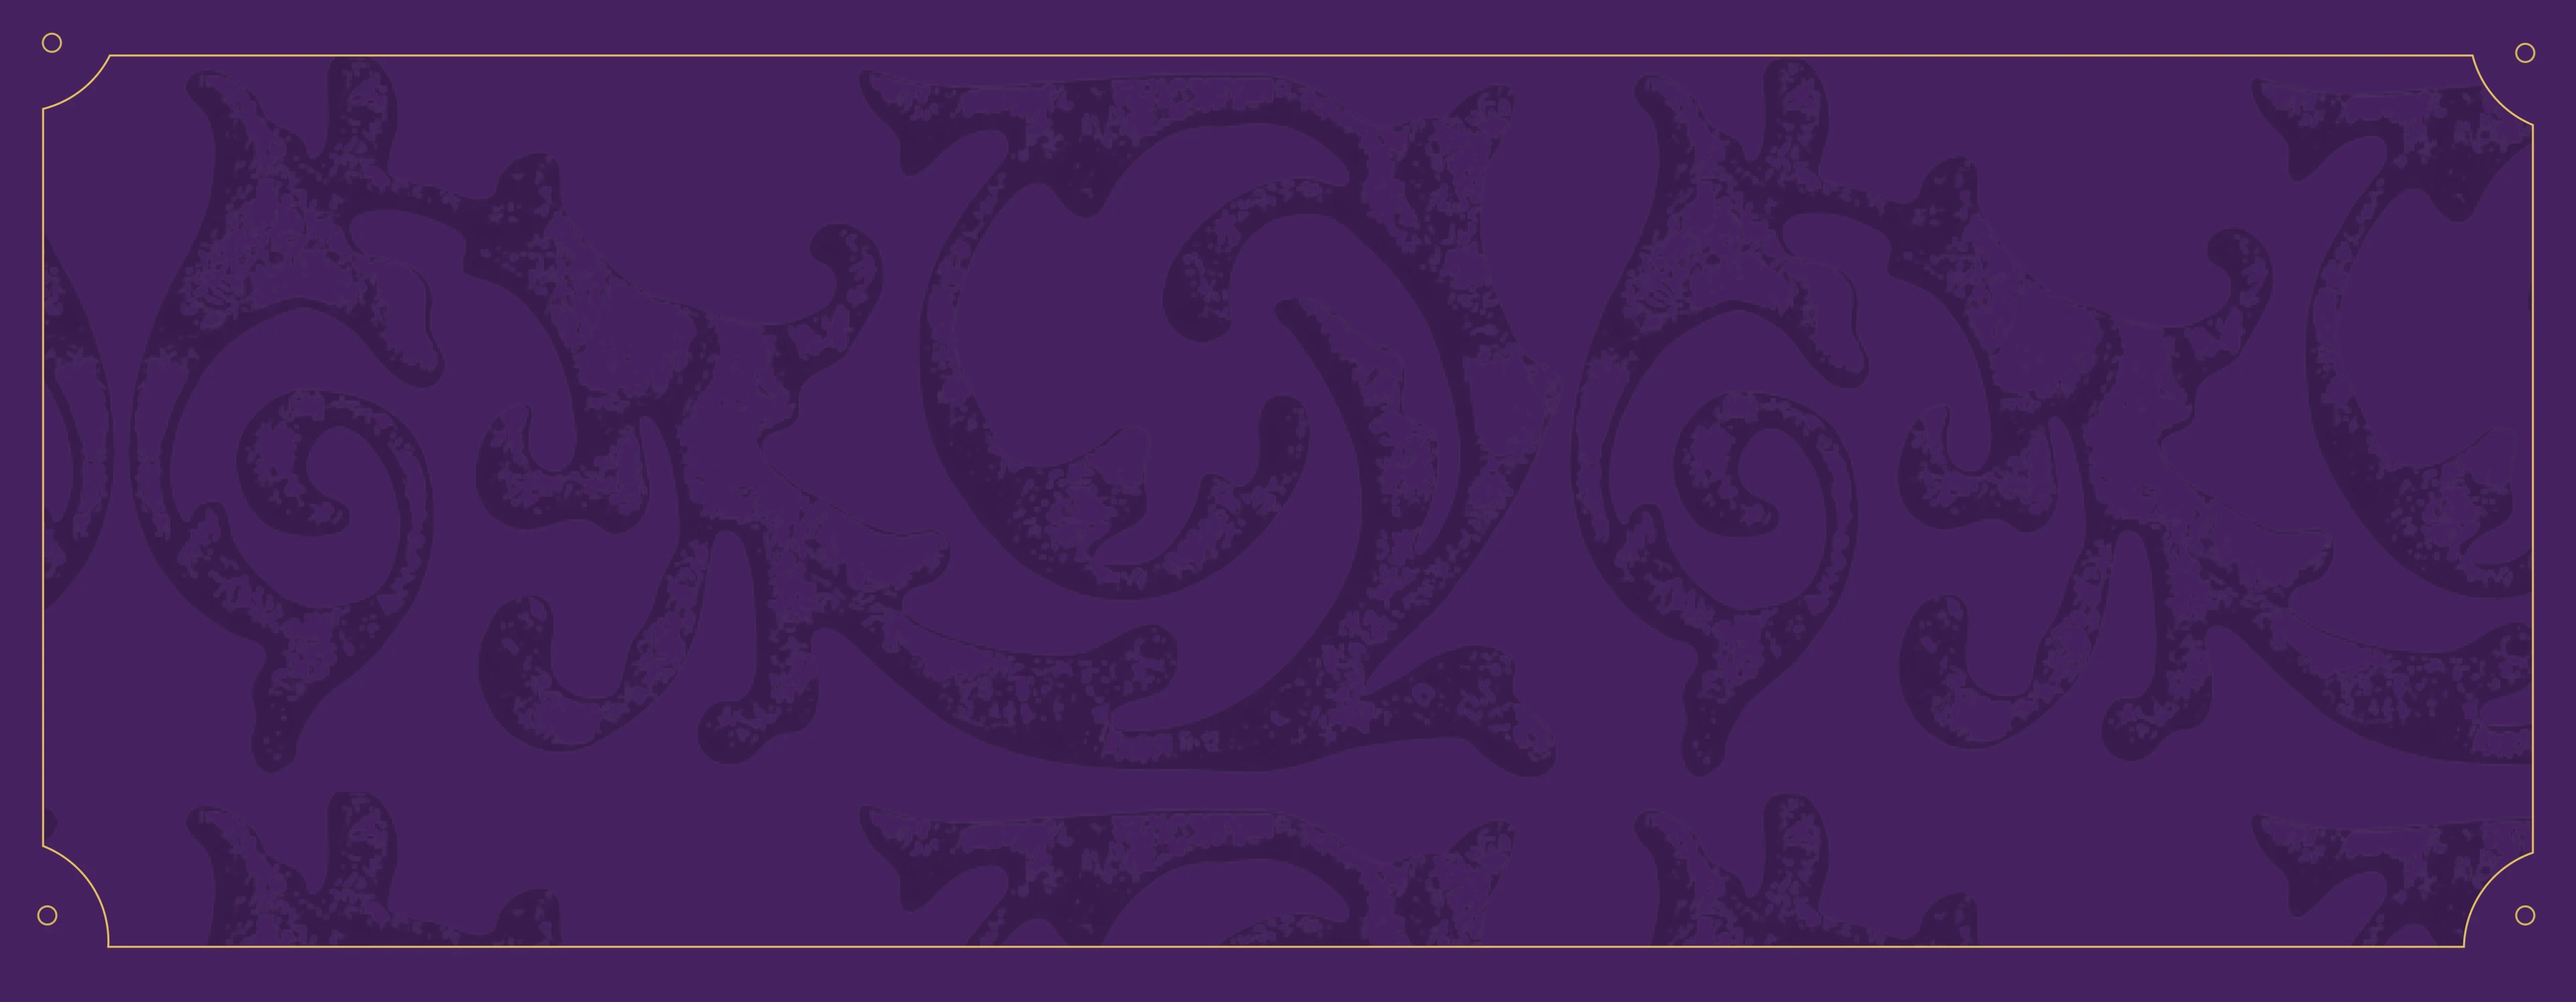
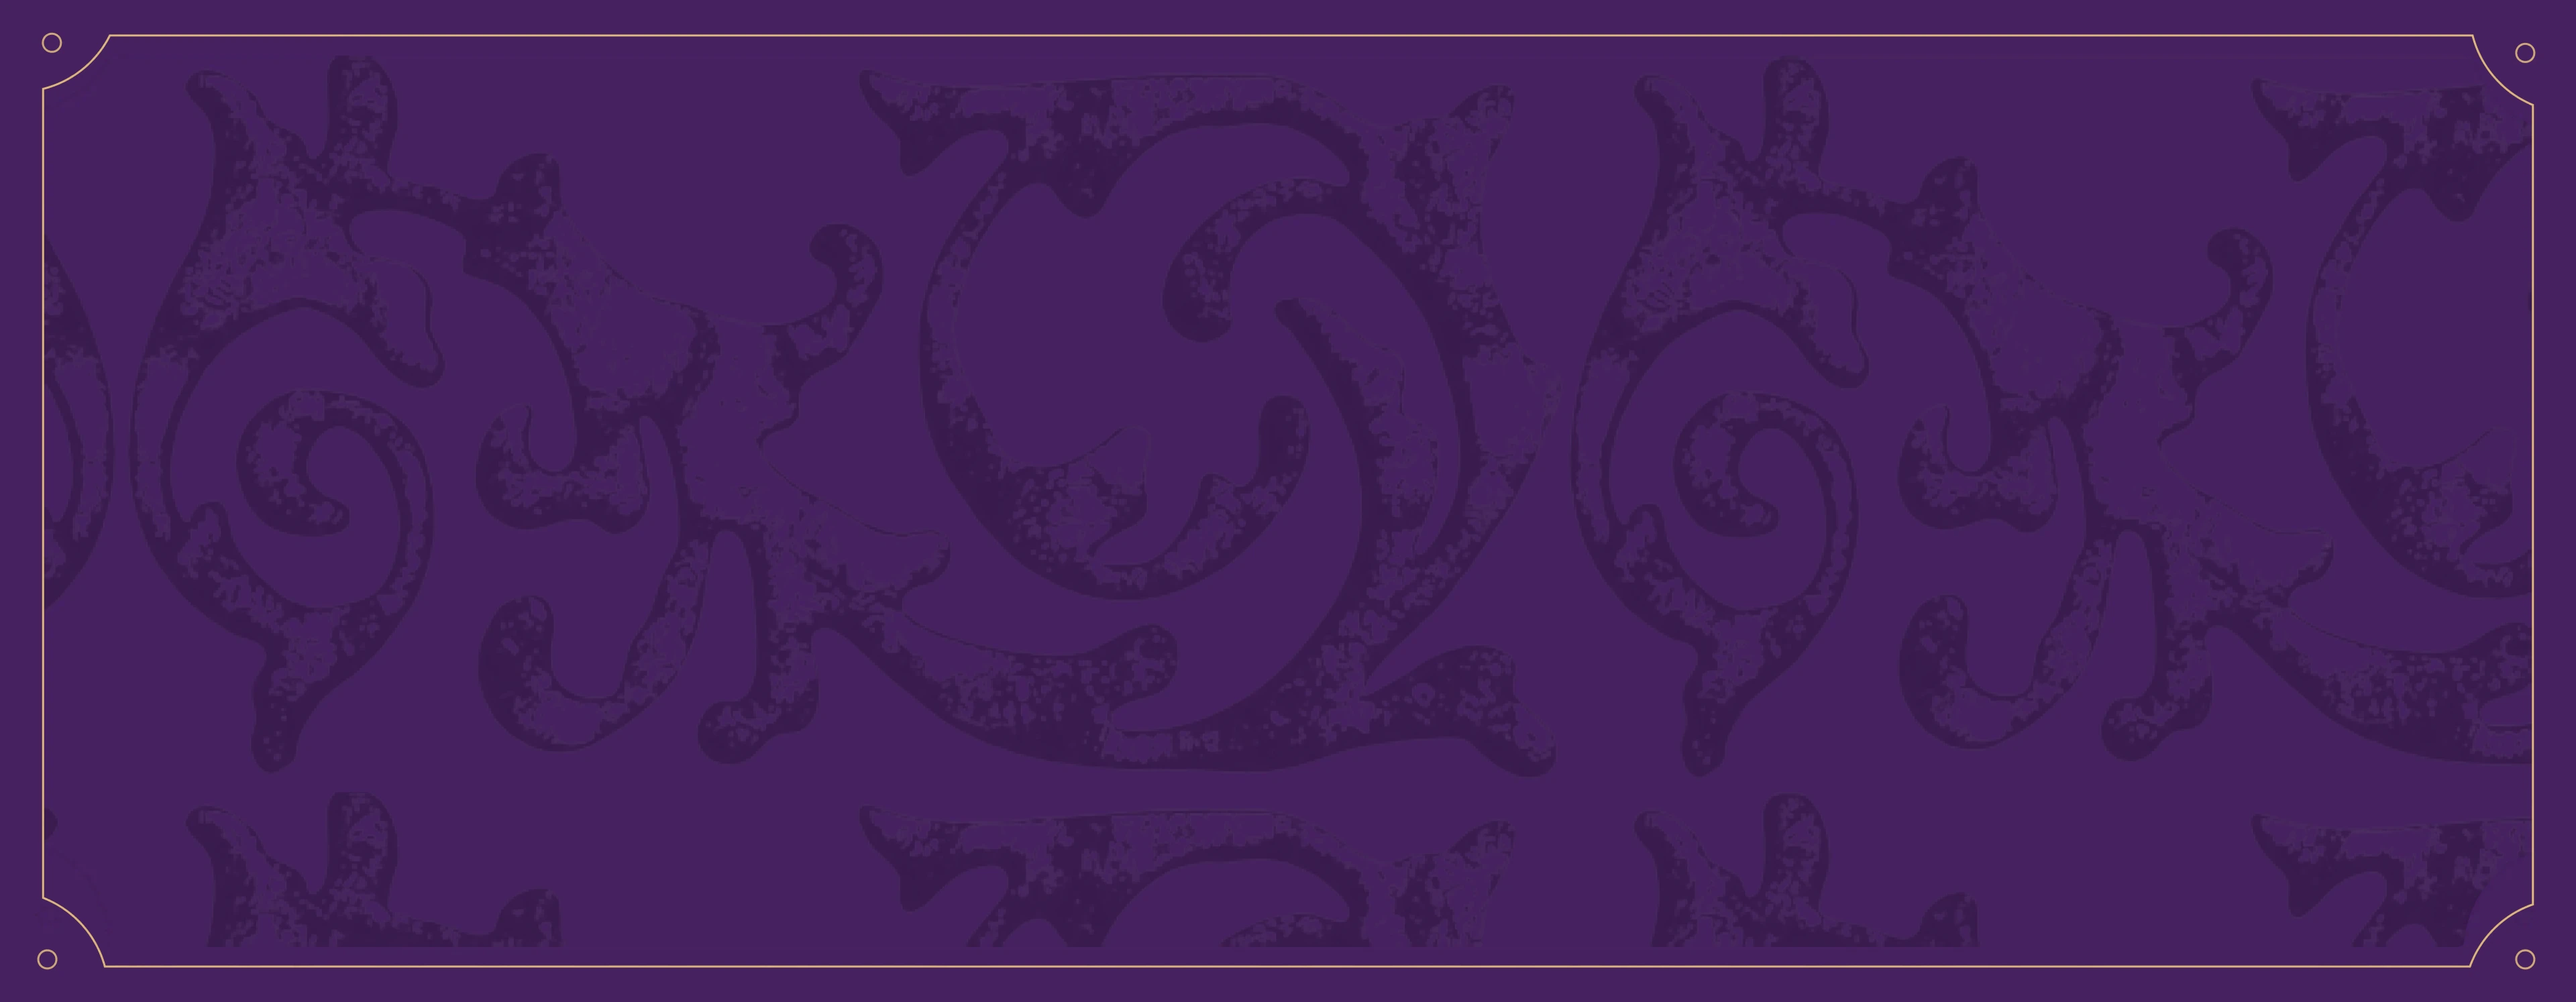
changes for desktop pages

diff --git a/modules/pricing/components/shared/twill-panel.tsx b/modules/pricing/components/shared/twill-panel.tsx
@@ -1,4 +1,4 @@
-import Image from "next/image";
+import Image, { type StaticImageData } from "next/image";
 import type { ReactNode } from "react";
 import { cn } from "@/lib/cn";
 import twillTile from "@/modules/landing/assets/blog/damask-tile.webp";
@@ -16,6 +16,8 @@ type TwillPanelProps = {
    * maroon). Smaller on tablets and phones; the panel's own top padding should clear it there.
    */
   stamp?: boolean;
+  /** Another twill tile in place of the default (Managed Launch's CTA uses Figma's own export). */
+  tile?: StaticImageData;
   className?: string;
   children: ReactNode;
 };
@@ -25,14 +27,14 @@ type TwillPanelProps = {
  * tile at 172.82px with darken, a 0.75px gold hairline frame inside it, and either four corner studs or (the CTA
  * banners) a postage stamp in the top right corner.
  */
-export function TwillPanel({ frameInset, studInset, stamp, className, children }: TwillPanelProps) {
+export function TwillPanel({ frameInset, studInset, stamp, tile = twillTile, className, children }: TwillPanelProps) {
   return (
     <div className={cn("relative isolate", className)}>
       <div aria-hidden className="pointer-events-none absolute inset-0 -z-1">
         <div className="absolute inset-0 bg-maroon" />
         <div
           className="absolute inset-0 bg-size-[172.82454997301102px_172.82454997301102px] bg-top-left mix-blend-darken"
-          style={{ backgroundImage: `url(${twillTile.src})` }}
+          style={{ backgroundImage: `url(${tile.src})` }}
         />
       </div>
       <div

diff --git a/modules/ai-assistants/components/cta/cta.tsx b/modules/ai-assistants/components/cta/cta.tsx
@@ -1,3 +1,4 @@
+import type { StaticImageData } from "next/image";
 import type { ReactNode } from "react";
 import { StampButton } from "@/components/ui/stamp-button";
 import { SectionTitle } from "@/modules/landing/components/shared/section-title";
@@ -72,11 +73,12 @@ export function AssistantsCta({
  * 14px in and the postage stamp, its contents centred in a column 28px apart, with 96px of padding (64px and 24px
  * on phones, where the top keeps 96px so the stamp clears the headline).
  */
-export function CtaBannerPanel({ children }: { children: ReactNode }) {
+export function CtaBannerPanel({ tile, children }: { tile?: StaticImageData; children: ReactNode }) {
   return (
     <TwillPanel
       frameInset={14}
       stamp
+      tile={tile}
       className="flex flex-col items-center gap-7 px-6 pt-24 pb-16 text-center md:px-20 md:py-24"
     >
       {children}

diff --git a/modules/managed-launch/components/pilot/pilot-cta.tsx b/modules/managed-launch/components/pilot/pilot-cta.tsx
@@ -1,6 +1,8 @@
 import { StampButton } from "@/components/ui/stamp-button";
 import { CtaBannerPanel, CtaBannerTitle } from "@/modules/ai-assistants/components/cta/cta";
 import { ctaLinks } from "@/modules/marketing";
+// Figma's own twill tile for this panel (3991:204201): lighter than the shared one, so the maroon reads as in Figma.
+import twillTile from "../../assets/cta/twill-tile.webp";
 
 /**
  * Figma "Section · CTA (team, not just a product)" (node 3262:692), closing the page in the site's CTA banner layout
@@ -12,7 +14,7 @@ export function PilotCta() {
   return (
     <section aria-labelledby="pilot-cta-title" className="relative py-16 md:py-24">
       <div className="content-width">
-        <CtaBannerPanel>
+        <CtaBannerPanel tile={twillTile}>
           <CtaBannerTitle
             id="pilot-cta-title"
             initial="Y"

diff --git a/modules/managed-launch/components/library/journey-library.tsx b/modules/managed-launch/components/library/journey-library.tsx
@@ -80,8 +80,8 @@ function JourneyNote({ index: i, angle, style, className = "" }: { index: number
       <h3 className="absolute top-[38.94px] left-[19.93px] font-serif text-[22px] leading-[1.1] font-normal tracking-[-0.88px] whitespace-nowrap text-parchment">
         {journey.title}
       </h3>
-      <p className="absolute top-[93.08px] left-[18.01px] w-[270.031px] font-sans text-base leading-6 tracking-[-0.32px] text-white/50">
-        <span className="font-medium text-white/90">{journey.lead}</span> {journey.body}
+      <p className="absolute top-[93.08px] left-[18.01px] w-[270.031px] font-sans text-base leading-6 tracking-[-0.32px] text-white">
+        <span className="font-medium text-white">{journey.lead}</span> {journey.body}
       </p>
     </div>
   );

diff --git a/modules/pricing/components/calculator/roi-calculator.tsx b/modules/pricing/components/calculator/roi-calculator.tsx
@@ -123,7 +123,7 @@ export function RoiCalculator() {
         <Result title="Estimated revenue generated" value={shown ? money.format(revenue) : "—"} />
       </div>
 
-      <div className="relative flex items-center justify-between gap-4 bg-wine px-5 py-4">
+      <div className="relative flex items-center justify-between gap-4 bg-[#7d0034] px-5 py-4">
         <div className="flex min-w-0 flex-col gap-1.5 text-[12px]">
           <p className="font-open-sans leading-[1.1667] font-semibold tracking-[1.44px] text-amber uppercase">Return on investment</p>
           <p className="font-sans leading-normal text-cream">Estimated revenue &divide; estimated monthly cost, e.g. 3x</p>

diff --git a/modules/pricing/components/credits/credits.tsx b/modules/pricing/components/credits/credits.tsx
@@ -76,7 +76,7 @@ export function Credits() {
                 <th scope="col" className={cn(rule, "bg-cream md:sticky md:left-0 md:z-1")}>
                   <span className="sr-only">Interaction</span>
                 </th>
-                <th scope="col" className={cn(head, "bg-wine text-gold-bright")}>
+                <th scope="col" className={cn(head, "bg-[#7d0034] text-gold-bright")}>
                   Credits
                 </th>
                 <th scope="col" className={cn(head, "text-ink-soft")}>

diff --git a/app/(marketing)/blog/page.tsx b/app/(marketing)/blog/page.tsx
@@ -12,7 +12,8 @@ export const metadata: Metadata = {
 /** Page · Blog (Figma 1660:312): the hero, the journal's filters and posts, the testimonials, then the envelope CTA. */
 export default function BlogPage() {
   return (
-    <main>
+    // No hero curtain here: the journal scrolls in below the hero instead of sliding up over its headline.
+    <main data-no-curtain>
       <BlogHero />
       <JournalIndex />
       <Testimonials variant="blog" />

diff --git a/modules/ai-assistants/components/differentiation/differentiation.tsx b/modules/ai-assistants/components/differentiation/differentiation.tsx
@@ -68,7 +68,7 @@ export function Differentiation({
                 <th scope="col" className={cn(head, "text-ink-soft")}>
                   {columns[1]}
                 </th>
-                <th scope="col" className={cn(head, "bg-wine text-gold-bright")}>
+                <th scope="col" className={cn(head, "bg-[#7d0034] text-gold-bright")}>
                   {columns[2]}
                 </th>
               </tr>
